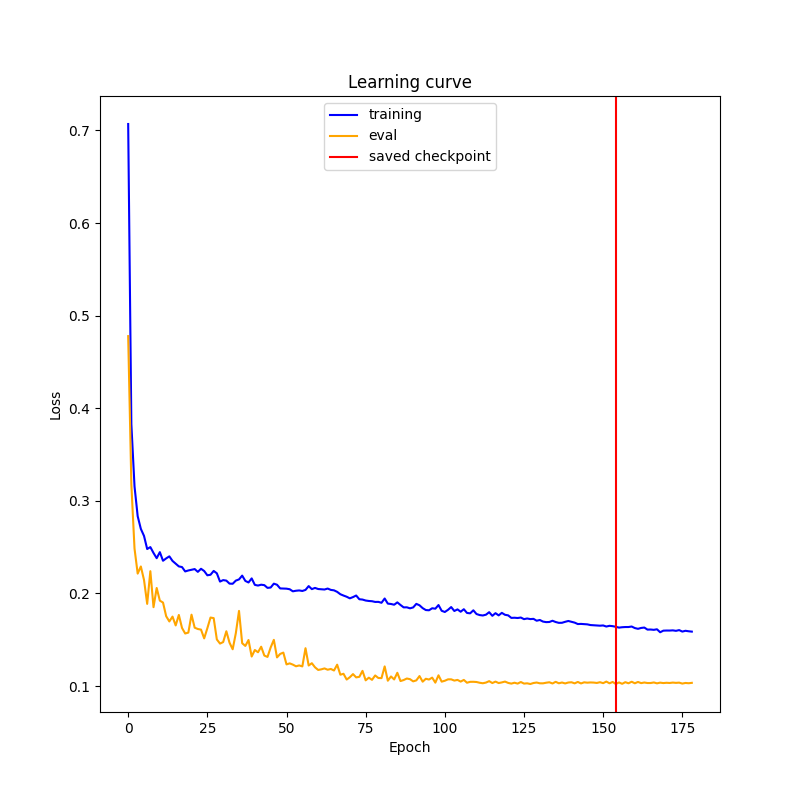
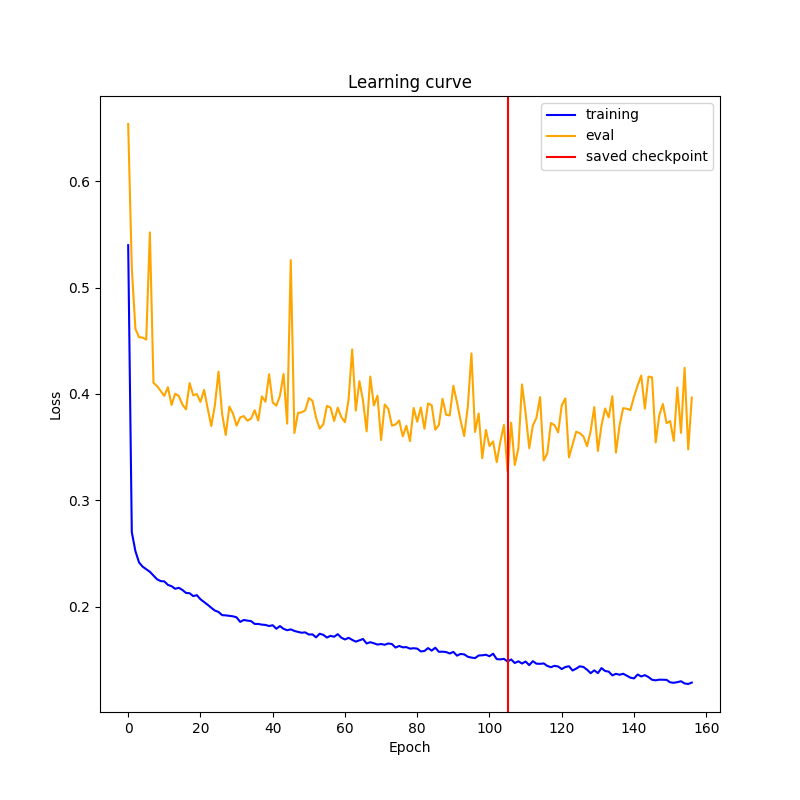
add seq2seq model

diff --git a/src/data_processing.py b/src/data_processing.py
@@ -11,8 +11,9 @@ from torch.utils.data import Dataset, DataLoader
 
 
 class CustomDataset(Dataset):
-    def __init__(self, features, targets, lookback, segment_lengths, forecast_horizon):
+    def __init__(self, features, future_features, targets, lookback, segment_lengths, forecast_horizon):
         self.X = torch.tensor(features, dtype=torch.float32)
+        self.X_future = torch.tensor(future_features, dtype=torch.float32)
         self.y = torch.tensor(targets, dtype=torch.float32)
         self.lookback = lookback
         self.forecast_horizon = forecast_horizon
@@ -32,9 +33,10 @@ class CustomDataset(Dataset):
     def __getitem__(self, idx):
         start = self.valid_starts[idx]
         X = self.X[start:start + self.lookback]
+        X_future = self.X_future[start + self.lookback:start + self.lookback + self.forecast_horizon]
         y = self.y[start + self.lookback:start + self.lookback + self.forecast_horizon]
 
-        return X, y
+        return X, X_future, y
 
 
 def get_df(config):
@@ -111,6 +113,7 @@ def process_df(config):
 def get_train_eval_test_df(config):
     df, segment_lengths, date_utc = process_df(config)
     X = df.drop('Value', axis=1)
+    temp_idx = X.columns.get_loc(config['data']['columns']['temp'])
     y= df[['Value']]
 
     test_size = config['data']['split']['test_size']
@@ -146,7 +149,9 @@ def get_train_eval_test_df(config):
 
     test_slice_start, test_slice_end = test_slices[0][0], test_slices[-1][1]
     X_test, y_test = X.iloc[test_slice_start: test_slice_end], y.iloc[test_slice_start: test_slice_end]
-    date_utc_test = [date_utc[start + config['hyperparams']['lookback']:end] for start, end in test_slices]
+    lookback = config['hyperparams']['lookback']
+    forecast_horizon = config['hyperparams']['forecast_horizon']
+    date_utc_test = [date_utc[start + lookback:end - forecast_horizon + 1] for start, end in test_slices]
     date_utc_test = pd.concat(date_utc_test)
     test_segment_lengths = [stop - start for start, stop in test_slices]
 
@@ -159,14 +164,19 @@ def get_train_eval_test_df(config):
     y_train = target_scaler.fit_transform(y_train)
     y_test = target_scaler.transform(y_test)
     y_eval = target_scaler.transform(y_eval)
+
+    # get rid of the temp column
+    X_train_future = np.delete(X_train, temp_idx, 1)
+    X_test_future = np.delete(X_test, temp_idx, 1)
+    X_eval_future = np.delete(X_eval, temp_idx, 1)
     
     X_train = np.column_stack([X_train, y_train])
     X_test = np.column_stack([X_test, y_test])
     X_eval = np.column_stack([X_eval, y_eval])
 
-    train_tuple = (X_train, y_train.squeeze(), train_segment_lengths)
-    eval_tuple = (X_eval, y_eval.squeeze(), eval_segment_lengths)
-    test_tuple = (X_test, y_test.squeeze(), test_segment_lengths, date_utc_test)
+    train_tuple = (X_train, X_train_future, y_train.squeeze(), train_segment_lengths)
+    eval_tuple = (X_eval, X_eval_future, y_eval.squeeze(), eval_segment_lengths)
+    test_tuple = (X_test, X_test_future, y_test.squeeze(), test_segment_lengths, date_utc_test)
 
     return train_tuple, eval_tuple, test_tuple, scaler, target_scaler
 
@@ -175,8 +185,9 @@ def get_data_loader(config, data_tuple):
     batch_size = config['hyperparams']['batch_size']
     lookback = config['hyperparams']['lookback']
     forecast_horizon = config['hyperparams']['forecast_horizon']
+    X_train, X_train_future, y_train, train_segment_lengths = data_tuple
 
-    custom_dataset = CustomDataset(data_tuple[0], data_tuple[1], lookback, data_tuple[2], forecast_horizon)
+    custom_dataset = CustomDataset(X_train, X_train_future, y_train, lookback, train_segment_lengths, forecast_horizon)
 
     return DataLoader(
         custom_dataset, 

diff --git a/src/seq2seq.py b/src/seq2seq.py
@@ -1,0 +1,73 @@
+import random
+
+import numpy as np
+from torch import nn
+import torch
+
+
+class Encoder(nn.Module):
+    def __init__(self, config, input_size):
+        super().__init__()
+        hyperparam_config = config['hyperparams']
+        self.lstm = nn.LSTM(
+            input_size= input_size,
+            hidden_size=hyperparam_config['hidden_size'],
+            num_layers=hyperparam_config['num_layers'],
+            batch_first=hyperparam_config['batch_first']
+        )
+
+    def forward(self, input_seq):
+        outputs, (hidden, cell) = self.lstm(input_seq)
+        return outputs, hidden, cell
+    
+
+class Decoder(nn.Module):
+    def __init__(self, config, input_size):
+        super().__init__()
+        hyperparam_config = config['hyperparams']
+        self.lstm = nn.LSTM(
+            input_size=input_size,
+            hidden_size=hyperparam_config['hidden_size'],
+            num_layers=hyperparam_config['num_layers'],
+            batch_first=hyperparam_config['batch_first']
+        )
+        self.out = nn.Linear(hyperparam_config['hidden_size'], 1)
+
+    def forward(self, input_seq, hidden, cell):
+        output, (hidden, cell) = self.lstm(input_seq, (hidden, cell))
+        prediction = self.out(output)
+        return prediction, hidden, cell
+    
+
+class Seq2SeqLSTM(nn.Module):
+    def __init__(self, config, encoder, decoder):
+        super().__init__()
+        self.config = config
+        hyperparam_config = self.config['hyperparams']
+        self.encoder = encoder
+        self.decoder = decoder
+        self.forecast_horizon = hyperparam_config['forecast_horizon']
+
+    # [64, 168, 11] - input.shape = [batch_size, lookback, features]
+    # [64, 24] - output.shape = [batch_size, forecast_horizon]
+    def forward(self, input_seq, future_input_seq, target_seq=None, teacher_forcing_ratio=0):
+        target_len = self.config['hyperparams']['forecast_horizon']
+        outputs = []
+        _, hidden, cell = self.encoder(input_seq)
+
+        dec_in = input_seq[:, -1, -1]
+
+        for t in range(target_len):
+            future_seq = future_input_seq[:, t, :]
+            future_seq = future_seq[:, None, :]
+            dec_in = dec_in[:, None, None]
+            dec_in = torch.cat((future_seq, dec_in), dim=2)
+
+            pred, hidden, cell = self.decoder(dec_in, hidden, cell)
+            outputs.append(pred[:, 0, 0])
+            teacher_force = random.random() < teacher_forcing_ratio
+            dec_in = target_seq[:, t] if teacher_force and target_seq is not None else pred[:, 0, 0]
+
+        outputs = torch.stack(outputs, dim=1)
+
+        return outputs

diff --git a/src/evaluate.py b/src/evaluate.py
@@ -7,6 +7,7 @@ import holidays
 import joblib
 import matplotlib.dates as mdates
 import numpy as np
+import numpy.ma as ma
 import pandas as pd
 import torch
 
@@ -174,7 +175,7 @@ def get_valid_counts(config, y, segments):
     window_lengths = [segment - window_total + 1 for segment in segments]
     start_offsets = np.concatenate([[0], np.cumsum(window_lengths)[:-1]])
     for start, length in zip(start_offsets, window_lengths):
-        chunk = y[start:start+length]
+        chunk = y[start:start+length, 0]
         valid_counts.append(np.count_nonzero(~np.isnan(chunk)))
 
     return valid_counts
@@ -208,15 +209,14 @@ def evaluate(config):
 
     naive_model = NaiveSeasonalForecast(config, test_data[2])
     y_naive = naive_model.predict(test_data[1])
+
     y_naive = target_scaler.inverse_transform(y_naive)
 
-    valid_mask = np.isfinite(y_naive)
+    valid_mask = np.isnan(y_naive)
+    dates_valid_mask = ~np.isnan(y_naive[:, 0])
     valid_counts = get_valid_counts(config, y_naive, test_data[2])
 
-    y_naive = y_naive[~np.isnan(y_naive)]
-
-    y_test = y_test[valid_mask].reshape(-1, 1)
-    y_pred = y_pred[valid_mask].reshape(-1, 1)
+    y_naive = ma.masked_array(y_naive, mask=valid_mask)
 
     scaled_rmse_loss = np.sqrt(np.mean((y_pred - y_test) ** 2))
     logger.info(f'RMSE(scaled)={scaled_rmse_loss:.3f}')
@@ -224,22 +224,21 @@ def evaluate(config):
     y_test = target_scaler.inverse_transform(y_test)
     y_pred = target_scaler.inverse_transform(y_pred)
 
-    y_test = y_test.ravel()
-    y_pred = y_pred.ravel()
-
     mwh_rmse_loss = target_scaler.scale_ * scaled_rmse_loss
     mwh_rmse_loss_naive = np.sqrt(np.mean((y_naive - y_test) ** 2))
 
-    log_metrics(y_test, y_pred, valid_counts, mwh_rmse_loss)
-    logger.info('Naive model')
-    log_metrics(y_test, y_naive, valid_counts, mwh_rmse_loss_naive)
+    y_test = ma.masked_array(y_test, mask=valid_mask)
+    y_pred = ma.masked_array(y_pred, mask=valid_mask)
 
-    valid_mask = valid_mask.squeeze()
-    dates = test_data[3]
-    dates = dates[valid_mask]
+    log_metrics(y_test[:, 0], y_pred[:, 0], valid_counts, mwh_rmse_loss)
+    logger.info('Naive model')
+    log_metrics(y_test[:, 0], y_naive[:, 0], valid_counts, mwh_rmse_loss_naive)
     
-    plot_overall_result(config, dates, y_test, y_pred, y_naive)
-    plot_week_data(dates, y_test, y_pred, y_naive, valid_counts)
+    dates = test_data[3]
+    dates = dates[dates_valid_mask]
+    
+    plot_overall_result(config, dates, y_test[:, 0], y_pred[:, 0], y_naive[:, 0])
+    plot_week_data(dates, y_test[:, 0], y_pred[:, 0], y_naive[:, 0], valid_counts)
 
 
 if __name__ == '__main__':

diff --git a/src/train.py b/src/train.py
@@ -1,4 +1,6 @@
 import os
+
+from src.seq2seq import Decoder, Encoder, Seq2SeqLSTM
 os.environ['CUBLAS_WORKSPACE_CONFIG'] = ':4096:2'
 
 import argparse
@@ -40,7 +42,14 @@ def train(config):
     train_tuple, eval_tuple, test_tuple, scaler, target_scaler = get_train_eval_test_df(config)
     train_loader = get_data_loader(config, train_tuple)
     eval_loader = get_data_loader(config, eval_tuple)
-    model = EnergyModel(config, train_tuple[0].shape[1]).to(device)
+
+    input_size = train_tuple[0].shape[1]
+
+    decoder_input = train_tuple[1].shape[1] + 1
+    encoder = Encoder(config, input_size)
+    decoder = Decoder(config, decoder_input)
+    model = Seq2SeqLSTM(config, encoder, decoder).to(device)
+
     optimizer = optim.AdamW(model.parameters(), lr=hparam_config['lr'], weight_decay=hparam_config['weight_decay'])
     lr_scheduler = CosineAnnealingLR(optimizer, T_max=hparam_config['T_max'], eta_min=hparam_config['eta_min'])
     loss_fn = nn.MSELoss()
@@ -59,12 +68,13 @@ def train(config):
 
         model.train()
         training_loss = 0
-        for X_batch, y_batch in train_loader:
+        for X_batch, X_future_batch, y_batch in train_loader:
             X_batch = X_batch.to(device)
+            X_future_batch = X_future_batch.to(device)
             y_batch = y_batch.to(device)
 
             optimizer.zero_grad()
-            y_pred = model(X_batch)
+            y_pred = model(X_batch, X_future_batch, y_batch, hparam_config['teacher_forcing_ratio'])
             loss = loss_fn(y_pred, y_batch)
             training_loss += loss.data * X_batch.shape[0]
             loss.backward()
@@ -78,11 +88,12 @@ def train(config):
         model.eval()
         eval_loss = 0
         with torch.no_grad():
-            for X_batch, y_batch in eval_loader:
+            for X_batch, X_future_batch, y_batch in eval_loader:
                 X_batch = X_batch.to(device)
+                X_future_batch = X_future_batch.to(device)
                 y_batch = y_batch.to(device)
 
-                y_pred = model(X_batch)
+                y_pred = model(X_batch, X_future_batch)
                 loss = loss_fn(y_pred, y_batch)
                 eval_loss += loss.data * X_batch.shape[0]
 

diff --git a/src/baselines.py b/src/baselines.py
@@ -27,7 +27,6 @@ class NaiveSeasonalForecast():
                 y_view = np.concatenate((warm_up, sliding_window_view(y[view_start:view_end], self.forecast)), axis=0)
             else:   
                 view_start = start + self.lookback - self.m
-                print(f'start={view_start} and end={view_end}')
                 y_view = sliding_window_view(y[view_start:view_end], self.forecast)
 
             y_pred.extend(y_view)

diff --git a/README.md b/README.md
@@ -1,0 +1,18 @@
+# Energy Demand Forecasting
+
+This project aims to predict next hour energy demand for a specific country, Romania. As models I used LSTM and a baselines naive seasonal forecasting model. The dataset was fetched from https://www.entsoe.eu/data/power-stats/ using a custom data_fetcher which grabbed hourly data from 2019 to 2025. The dataset is enhanced with meteo data for every hour, for the biggest city in Romania, Bucharest, which can be a good proxy for energy consumption based on the temperature conditions.
+
+### Table of Contents
+
+* [Introduction](#introduction)
+* [Features](#features)
+* [Project Structure](#project-structure)
+* [Getting Started](#getting-started)
+* [Usage](#usage)
+* [Configuration](#configuration)
+* [Model Performance](#model-performance)
+
+
+### Introduction
+
+Using pytorch LSTM model 
